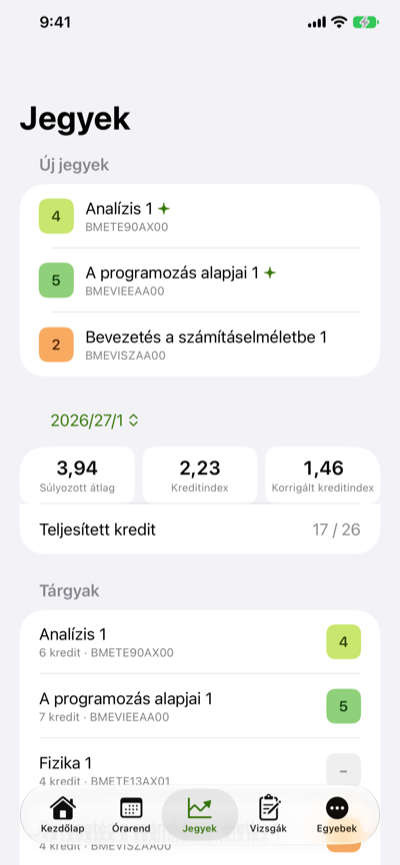
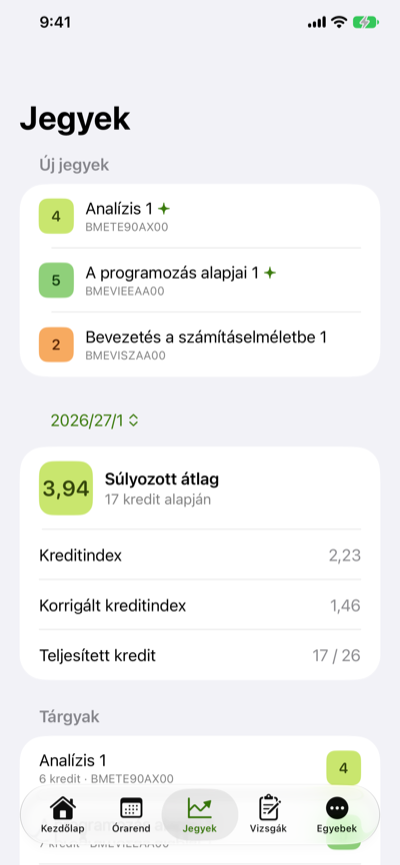
University Grades laid out like KRÉTA's: the average as a badge, credit indexes and credits as rows; new screenshot

diff --git a/Firka/UniversityViews.swift b/Firka/UniversityViews.swift
@@ -18,13 +18,16 @@ struct UniversityGradesView: View {
             List {
                 NewGradesSection()
                 Section {
-                    HStack(spacing: 8) {
-                        UniStat(value: avg.average?.hu2 ?? "–", label: "Súlyozott átlag")
-                        UniStat(value: avg.creditIndex.hu2, label: "Kreditindex")
-                        UniStat(value: avg.correctedCreditIndex.hu2, label: "Korrigált kreditindex")
+                    // like the KRÉTA grades screen: the average as a badge, the rest as rows
+                    HStack(spacing: 12) {
+                        AverageBadge(value: avg.average, size: 56)
+                        VStack(alignment: .leading, spacing: 2) {
+                            Text("Súlyozott átlag").font(.headline)
+                            Text("\(avg.completed) kredit alapján").font(.subheadline).foregroundStyle(.secondary)
+                        }
                     }
-                    .listRowInsets(EdgeInsets())
-                    .listRowBackground(Color.clear)
+                    LabeledContent("Kreditindex", value: avg.creditIndex.hu2)
+                    LabeledContent("Korrigált kreditindex", value: avg.correctedCreditIndex.hu2)
                     LabeledContent("Teljesített kredit", value: "\(avg.completed) / \(avg.taken)")
                 } header: {
                     if data.semesters.count > 1, let picked {
@@ -65,21 +68,6 @@ struct UniversityGradesView: View {
                 other = await store.courses(semester: picked)
             }
         }
-    }
-}
-
-private struct UniStat: View {
-    let value: String
-    let label: String
-
-    var body: some View {
-        VStack(spacing: 2) {
-            Text(value).font(.title3.bold().monospacedDigit())
-            Text(label).font(.caption2).foregroundStyle(.secondary).lineLimit(2).multilineTextAlignment(.center).minimumScaleFactor(0.8)
-        }
-        .frame(maxWidth: .infinity)
-        .padding(.vertical, 10)
-        .background(Color(.secondarySystemGroupedBackground), in: RoundedRectangle(cornerRadius: 12))
     }
 }
 
